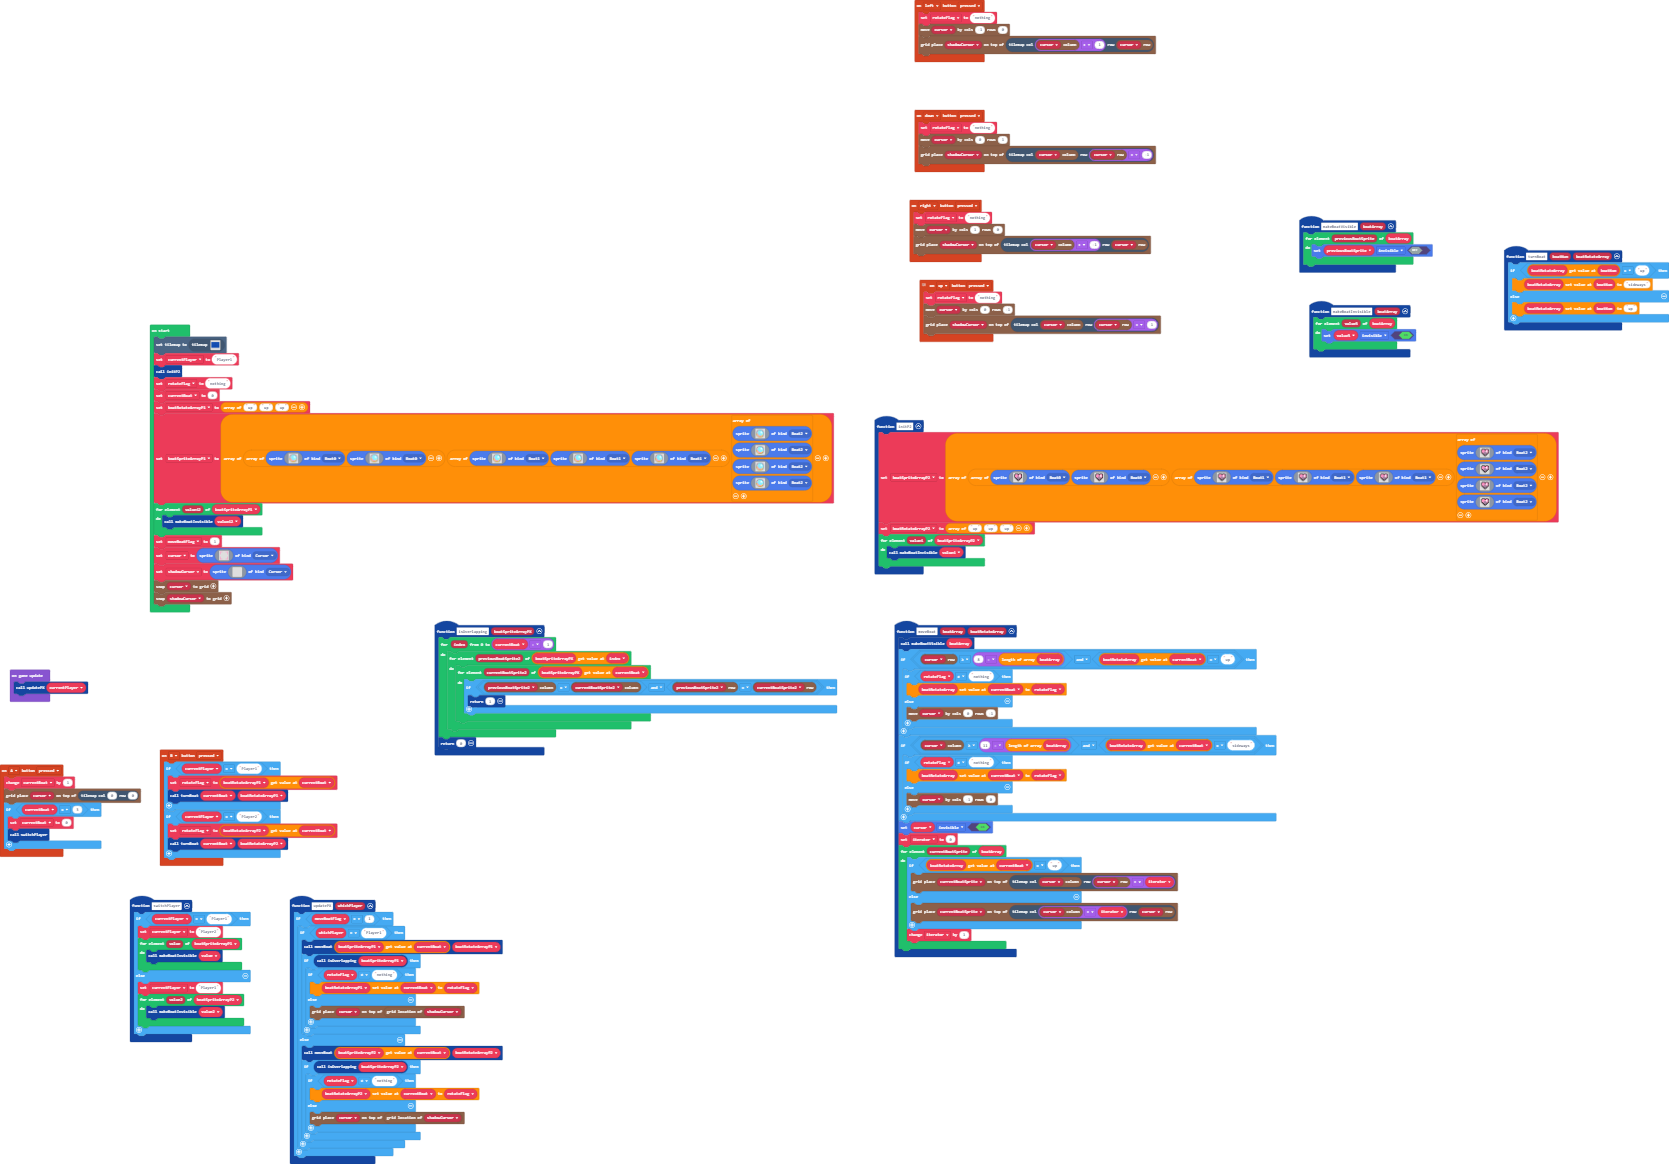
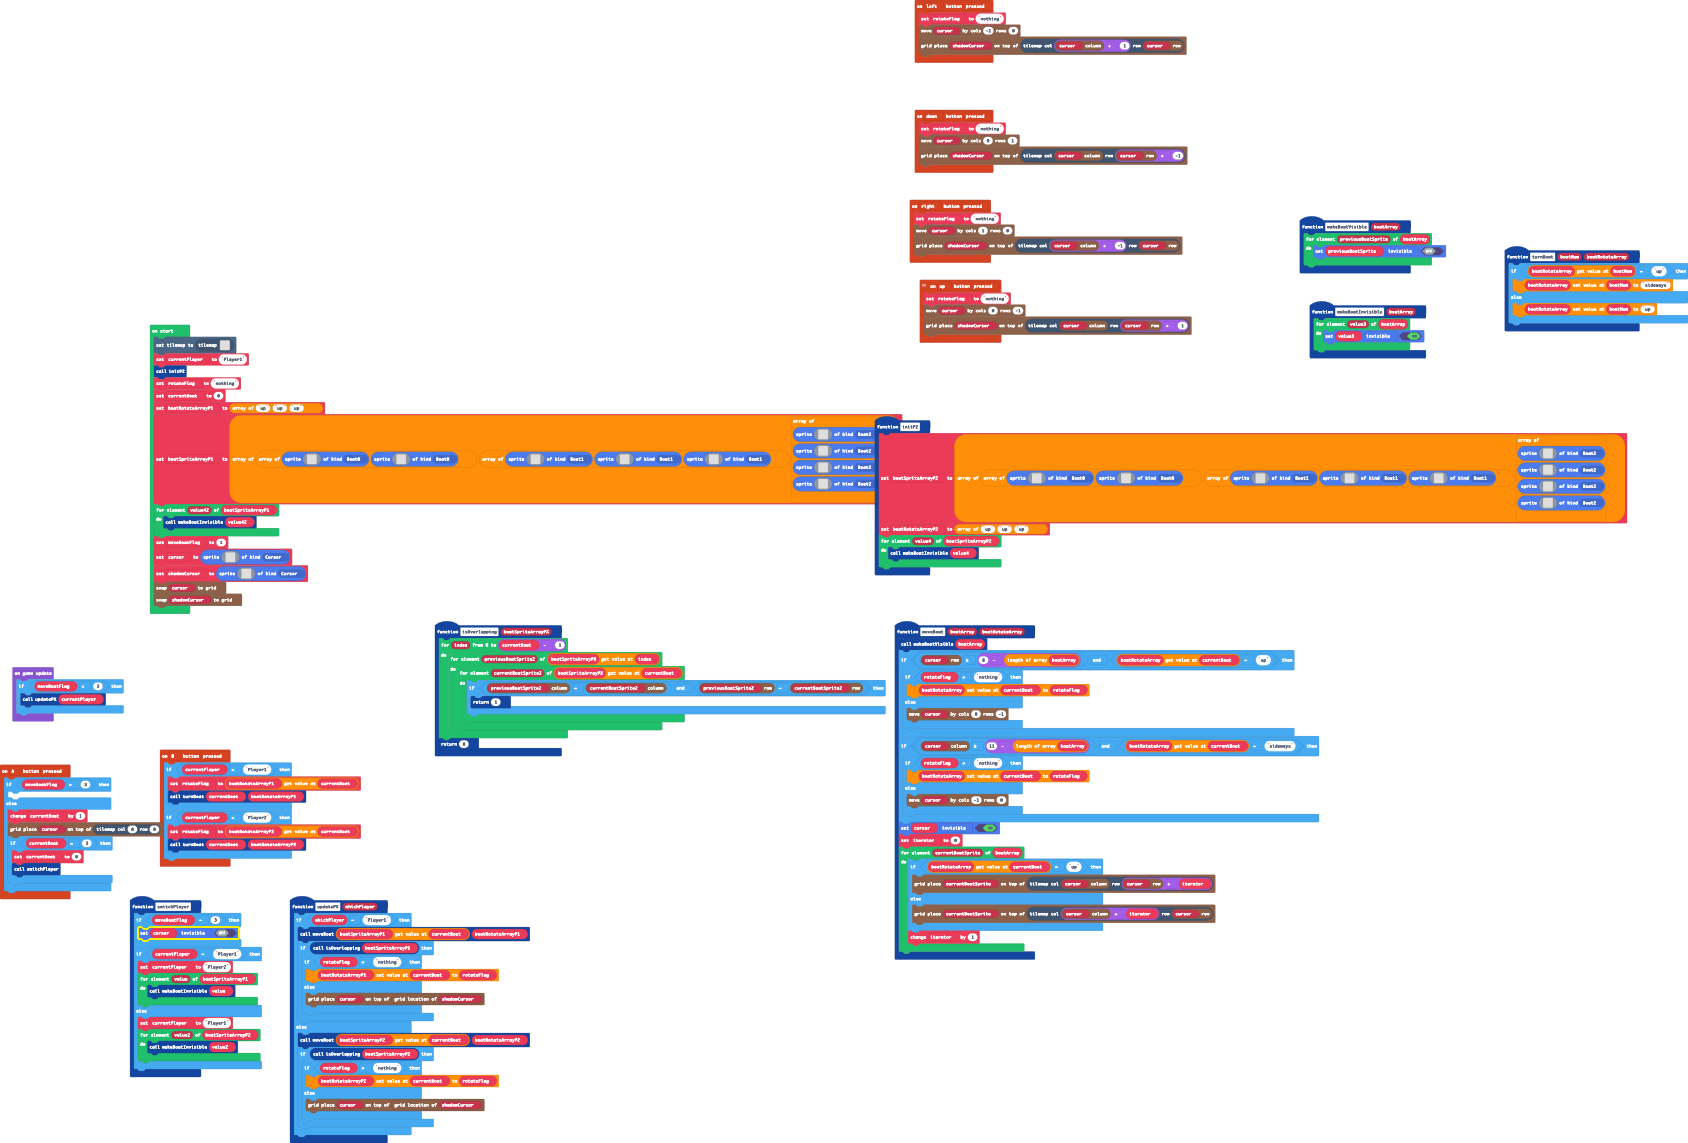
cursor turns on!

diff --git a/main.ts b/main.ts
@@ -11,24 +11,22 @@ controller.up.onEvent(ControllerButtonEvent.Pressed, function () {
     grid.place(shadowCursor, tiles.getTileLocation(grid.spriteCol(cursor), grid.spriteRow(cursor) + 1))
 })
 function updatePX (whichPlayer: string) {
-    if (moveBoatFlag == 1) {
-        if (whichPlayer == "Player1") {
-            moveBoat(boatSpriteArrayP1[currentBoat], boatRotateArrayP1)
-            if (isOverlapping(boatSpriteArrayP1)) {
-                if (rotateFlag != "nothing") {
-                    boatRotateArrayP1[currentBoat] = rotateFlag
-                } else {
-                    grid.place(cursor, grid.getLocation(shadowCursor))
-                }
+    if (whichPlayer == "Player1") {
+        moveBoat(boatSpriteArrayP1[currentBoat], boatRotateArrayP1)
+        if (isOverlapping(boatSpriteArrayP1)) {
+            if (rotateFlag != "nothing") {
+                boatRotateArrayP1[currentBoat] = rotateFlag
+            } else {
+                grid.place(cursor, grid.getLocation(shadowCursor))
             }
-        } else {
-            moveBoat(boatSpriteArrayP2[currentBoat], boatRotateArrayP2)
-            if (isOverlapping(boatSpriteArrayP2)) {
-                if (rotateFlag != "nothing") {
-                    boatRotateArrayP2[currentBoat] = rotateFlag
-                } else {
-                    grid.place(cursor, grid.getLocation(shadowCursor))
-                }
+        }
+    } else {
+        moveBoat(boatSpriteArrayP2[currentBoat], boatRotateArrayP2)
+        if (isOverlapping(boatSpriteArrayP2)) {
+            if (rotateFlag != "nothing") {
+                boatRotateArrayP2[currentBoat] = rotateFlag
+            } else {
+                grid.place(cursor, grid.getLocation(shadowCursor))
             }
         }
     }
@@ -49,11 +47,15 @@ function makeBoatVisible (boatArray: Sprite[]) {
     }
 }
 controller.A.onEvent(ControllerButtonEvent.Pressed, function () {
-    currentBoat += 1
-    grid.place(cursor, tiles.getTileLocation(0, 0))
-    if (currentBoat == 3) {
-        currentBoat = 0
-        switchPlayer()
+    if (moveBoatFlag == 3) {
+    	
+    } else {
+        currentBoat += 1
+        grid.place(cursor, tiles.getTileLocation(0, 0))
+        if (currentBoat == 3) {
+            currentBoat = 0
+            switchPlayer()
+        }
     }
 })
 controller.left.onEvent(ControllerButtonEvent.Pressed, function () {
@@ -62,6 +64,9 @@ controller.left.onEvent(ControllerButtonEvent.Pressed, function () {
     grid.place(shadowCursor, tiles.getTileLocation(grid.spriteCol(cursor) + 1, grid.spriteRow(cursor)))
 })
 function switchPlayer () {
+    if (moveBoatFlag == 3) {
+        cursor.setFlag(SpriteFlag.Invisible, false)
+    }
     if (currentPlayer == "Player1") {
         currentPlayer = "Player2"
         for (let value of boatSpriteArrayP1) {
@@ -527,5 +532,7 @@ shadowCursor = sprites.create(img`
 grid.snap(cursor)
 grid.snap(shadowCursor)
 game.onUpdate(function () {
-    updatePX(currentPlayer)
+    if (moveBoatFlag < 3) {
+        updatePX(currentPlayer)
+    }
 })
